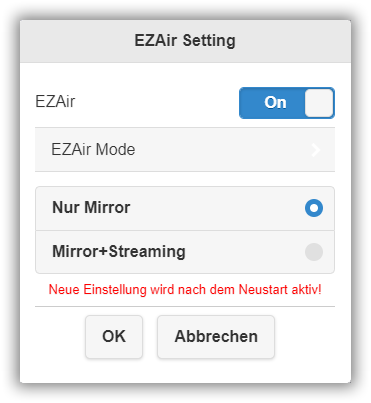
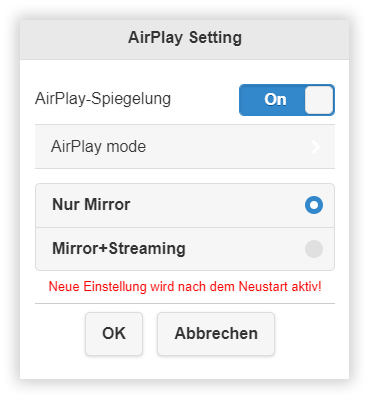
New infos re Host Control and Firmware Reinstall

diff --git a/src/Pro-Stick-D10/adv.settings.md b/src/Pro-Stick-D10/adv.settings.md
@@ -56,7 +56,7 @@ Mit der Konferenzensteuerung können Sie die folgenden Aufgaben durchführen:
 
 * Alle Geräte trennen
 
-* Gastgeber wechseln
+* Die Role als Host bzw. als Gastgeber einem Gast zuordnen
 
 * Geräte auf dem Bildschirm neu positionieren
 
@@ -111,7 +111,7 @@ Mit Vollbild-Modus wird die Eingabe des Endgeräts automatisch angepasst, um das
 
 ![Das iPad wird im Vollbild angezeigt](/images/NEC_E506_Vollbild.png)
 
-### EZAir Mode {#EZAirMode}
+### AirPlay Modus {#AirPlayMode}
 
 Mit einem iOS/macOS Gerät können Sie Ihren Bildschirminhalt auch direkt per Apple AirPlay übertragen. Das bedeutet, Sie benötigen in diesem Fall keine EZCast Pro Software. Diese Funktion ist 'out-the-box' freigegeben. Eine umfassende Anleitung zur Verwendung von AirPlay finden Sie [hier](airplay.md).
 
@@ -230,9 +230,33 @@ Kontrollieren Sie, welche Funktionen der Host im Menü Erweiterte Einstellungen 
 
 ![Gastbehörde](/images/Host_authority.jpg)
 
-Bei der obigen Konfiguration wird beispielsweise nur die Funktion `Konferenzensteuerung` eingeblendet. Bitte beachten: Die Rubriken `Link-Status` und `Über` stehen immer zur Verfügung.
+Möchten Sie bespielsweise, dass der Host keinen Zugang auf die Schaltfläche `Einstellungen` innerhalb der Software bzw. der App zugelassen wird, dann können Sie die Option `Gerätemanager-Steuerung` auf `Off` (aus) stellen.
+
+![Host-Einstellungen können mit Hilfe der Gastbehörde ausgeblendet werden](/images/ezcastpro.II.software.no-hostsettings.jpg)
+
+Bei der obigen Konfiguration wird beispielsweise nur die Funktion `Konferenzsteuerung` eingeblendet. Bitte beachten: Die Rubriken `Link-Status` und `Über` stehen immer zur Verfügung.
 
 ![Funktion Konferenzensteuerung per Gastbehörde einblenden](/images/ezcastpro.II.Host_authority_example.jpg)
+
+### Host-Steuerung {#Host-Steuerung}
+
+Der erste Benutzer, der sich über die Software bzw. über die App verbindet, wird als Gastgeber (Host) bezeichnet und die anderen als Gäste. Standardmäßig muss jeden Antrag zum Senden vom Host genehmigt werden, im dem er mit entweder `Vollbild`, `Teilen`, oder `Ablehnen` antwortet: 
+
+![](/images/host.control_answer.jpg)
+
+**Antrag automatisch genehmigen**
+
+Wenn `Antrag automatisch genehmigen` auf `On` eingestellt ist, wird der Antrag zum Senden automatisch genehmigt.
+
+**Bildschirm teilen**
+
+Standardmäßig ist diese Funktion freigeschaltet. Dies bedeutet, dass der Bildschirm geteilt wird, um bis zu vier Geräte gleichzeitig zu zeigen, auch bekannt als Splitscreen-Modus. Wenn `Bildschirm teilen` aus ist, übernimmt der nächste genehmigte Sender im Vollbildmodus.
+
+![](/images/host.control.jpg)
+
+Ein Status der Einstellungen der Host-Steuerung wird auf der Startseite unten angezeigt:
+
+![](/images/host.control_status.jpg)
 
 ### Internetzugangskontrolle {#Internetzugangskontrolle}
 

diff --git a/src/Pro-Stick-D10/firmware-reinstall.md b/src/Pro-Stick-D10/firmware-reinstall.md
@@ -6,7 +6,7 @@ Sie können den EZCast Pro Stick II wiederherstellen, indem Sie die Firmware neu
 
 * Der EZCast Pro Stick II läuft nicht stabil und ein [Reset](reset.md) hat nicht geholfen.
 
-* Sie haben die Wahl: Entweder die [Neuste Firmware](#neuste-firmware-installieren) oder eine [Vorherige Firmware](#vorherige-firmware-installieren) installieren
+* Sie haben die Wahl: Installieren Sie einfach die [Neuste Firmware](#neuste-firmware-installieren) oder eine [Vorherige Firmware](#vorherige-firmware-installieren) installieren
 
 > #### info::Hinweis
 >
@@ -126,7 +126,12 @@ Wenn die Installation erfolgreich durchgeführt wurde, erscheint die folgende Me
 
 Der EZCast Pro Stick II ist wieder einsatzbereit.
 
-# Einstellungen nach der Neuinstallation
+> #### info::HINWEIS
+>
+> Bitte beachten: Bei einer Neuinstallation der Firmware werden die fabrikseitigen Einstellungen des Geräts wiederhergestellt. Bitte prüfen Sie nach der Neuinstallation unsere [empfohlene Einstellungen](#Recommendedsettings).
+
+
+# Einstellungen nach der Neuinstallation {#Recommendedsettings}
 
 Nach der Neuinstallation werden Sie bei der ersten Anmeldung auf der [Erweiterte Einstellungen](adv.settings.md) aufgefordert, das Admin-Kennwort zu ändern. Standardmäßig lautet es `000000`. Wir empfehlen, dass Sie anschließend die folgenden Einstellungen überprüfen:
 
@@ -134,6 +139,7 @@ Nach der Neuinstallation werden Sie bei der ersten Anmeldung auf der [Erweiterte
 * [Sprache](adv.settings.md#Sprache) z.B.: `DEUTSCH`
 * [WLAN-Modus](adv.settings.md#Wifi-Channel) z.B.: `Land = EUROPE`, `Bandbreite = 20MHz`
 * [Android-Audio-Streaming](adv.settings.md#Android-Audio-Streaming) z.B.: `ON`
+* [Gastbehörde](adv.settings.md#Host-Authority) z.B.: `Dem Host Zugang nur auf die Konferenzsteuerung zulassen`
 
 
 
